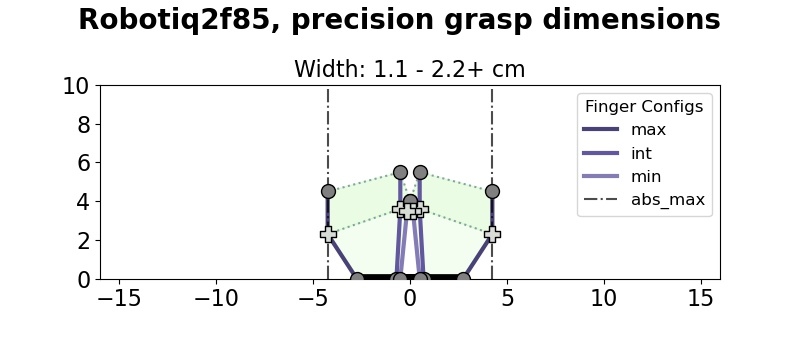
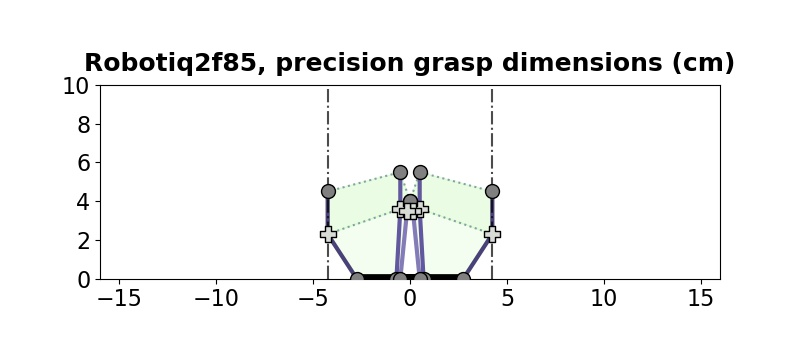
adding scaffolding for refactoring

diff --git a/Results/plot_hand_dims.py b/Results/plot_hand_dims.py
@@ -323,12 +323,17 @@ class HandDims:
                 ax.plot([-1 * x, 1 * x], [0, 0], linewidth=7, color="black")
 
     def plot_dims(self, subplot_fig=None, subplot_ax=None,
-                  fig_size=10, fig_size_ratio=None,
+                  fig_size=10, fig_size_ratio=None, show_width=True,
                   plt_xlims=None, plt_ylims=None, tick_font_size=16, 
                   show_legend=True, show_plot=True, save_plot=False):
 
         if fig_size_ratio is None:
             fig_size_ratio = [1.25, 0.45]
+
+        if show_width:
+            widths = [self.widths[0], self.widths[1], True]
+        else:
+            widths = None
 
         if subplot_ax is not None and subplot_fig is not None:
             fig = subplot_fig
@@ -339,7 +344,7 @@ class HandDims:
 
         self._make_dimension_plot(fig=fig, ax=ax,
                             shade_distal=True, shade_proximal=True, y_offset=True,
-                            width_vals=[self.widths[0], self.widths[1], True],
+                            width_vals=widths,
                             plt_xlims=plt_xlims, plt_ylims=plt_ylims, tick_font_size=tick_font_size,
                             show_legend=show_legend,
                             show_plot=show_plot,
@@ -429,10 +434,11 @@ class HandDims:
 
         self.draw_palm(ax=ax)
 
-        title = f"{self.hand.capitalize()}, {self.dim_type} grasp dimensions"
+        title = f"{self.hand.capitalize()}, {self.dim_type} grasp dimensions (cm)"
 
-        if None in self.widths:
-            ax.set_title(title, fontweight='bold', fontsize=20)
+        # TODO: still using the widths as parameter, not the object -> turn into show_widths
+        if width_vals is None or None in self.widths:
+            ax.set_title(title, fontsize=18, fontweight='bold', pad=10) #fontweight='bold', fontsize=20)
         else:
             fig.suptitle(title, fontweight='bold', fontsize=20)
 
@@ -580,7 +586,7 @@ if __name__ == '__main__':
     # options: barrett, human, jaco2, mO_cylindrical, mO_spherical, mt42, robotiq2f85
     hand = "robotiq2f85"
     # options: precision, power
-    dim_type = "precision"
+    dim_type = "power"
     # object dimension you want to test
     obj_name = "Cheezits_smallside"
     obj_dim = obj_size[obj_name][0]
@@ -593,9 +599,10 @@ if __name__ == '__main__':
     fig, ax = dims.plot_dims(plt_xlims=[-16, 16],
                            plt_ylims=[0, 10],
                            fig_size_ratio=[1, 0.45],
-                           show_legend=True,
+                           show_width=False,
+                           show_legend=False,
                            tick_font_size=16, fig_size=8,
-                           show_plot=True, save_plot=False)
+                           show_plot=True, save_plot=True)
     # dims.plot_object(fig, ax, 
     #                  plot_depth=obj_plot_depth, span_adjust=0,
     #                  object_span=obj_dim, object_depth=obj_dim_depth,

diff --git a/Results/hand_dims.py b/Results/hand_dims.py
@@ -1,0 +1,35 @@
+
+
+class HandDims:
+    def __init__():
+        self.width_max
+        self.width_min
+        self.abs_max_span
+        self.grasp_type
+
+    def get_span(depth, actuation_perc):
+        pass
+
+    def span_depth_pair(loc, actuation_perc):
+        pass
+
+    def obj_fit(obj_dims, depth_pos):
+        pass
+
+    def obj_assess(obj_dims):
+        pass
+
+    def check_mid():
+        pass
+
+    def save_dims():
+        pass
+
+    def add_int_measurement(loc, dist, base, mids, wipe_ints=False):
+        pass
+
+    def edit_max(new_val):
+        pass
+
+    def edit_min(new_val):
+        pass

diff --git a/Results/dims_analyzer.py b/Results/dims_analyzer.py
@@ -1,0 +1,14 @@
+
+
+class DimAnalyzer:
+    def __init__():
+        pass
+
+    def plot_hand_dims(hand):
+        pass
+
+    def plot_hand_obj(hand, obj):
+        pass
+
+    def plot_hand_obj_contact(hand, obj, depth=0.5):
+        pass

diff --git a/Results/obj_dims.py b/Results/obj_dims.py
@@ -1,0 +1,8 @@
+
+
+class ObjDims:
+    def __init__():
+        self.span 
+        self.depth 
+        self.width 
+        self.shape 
